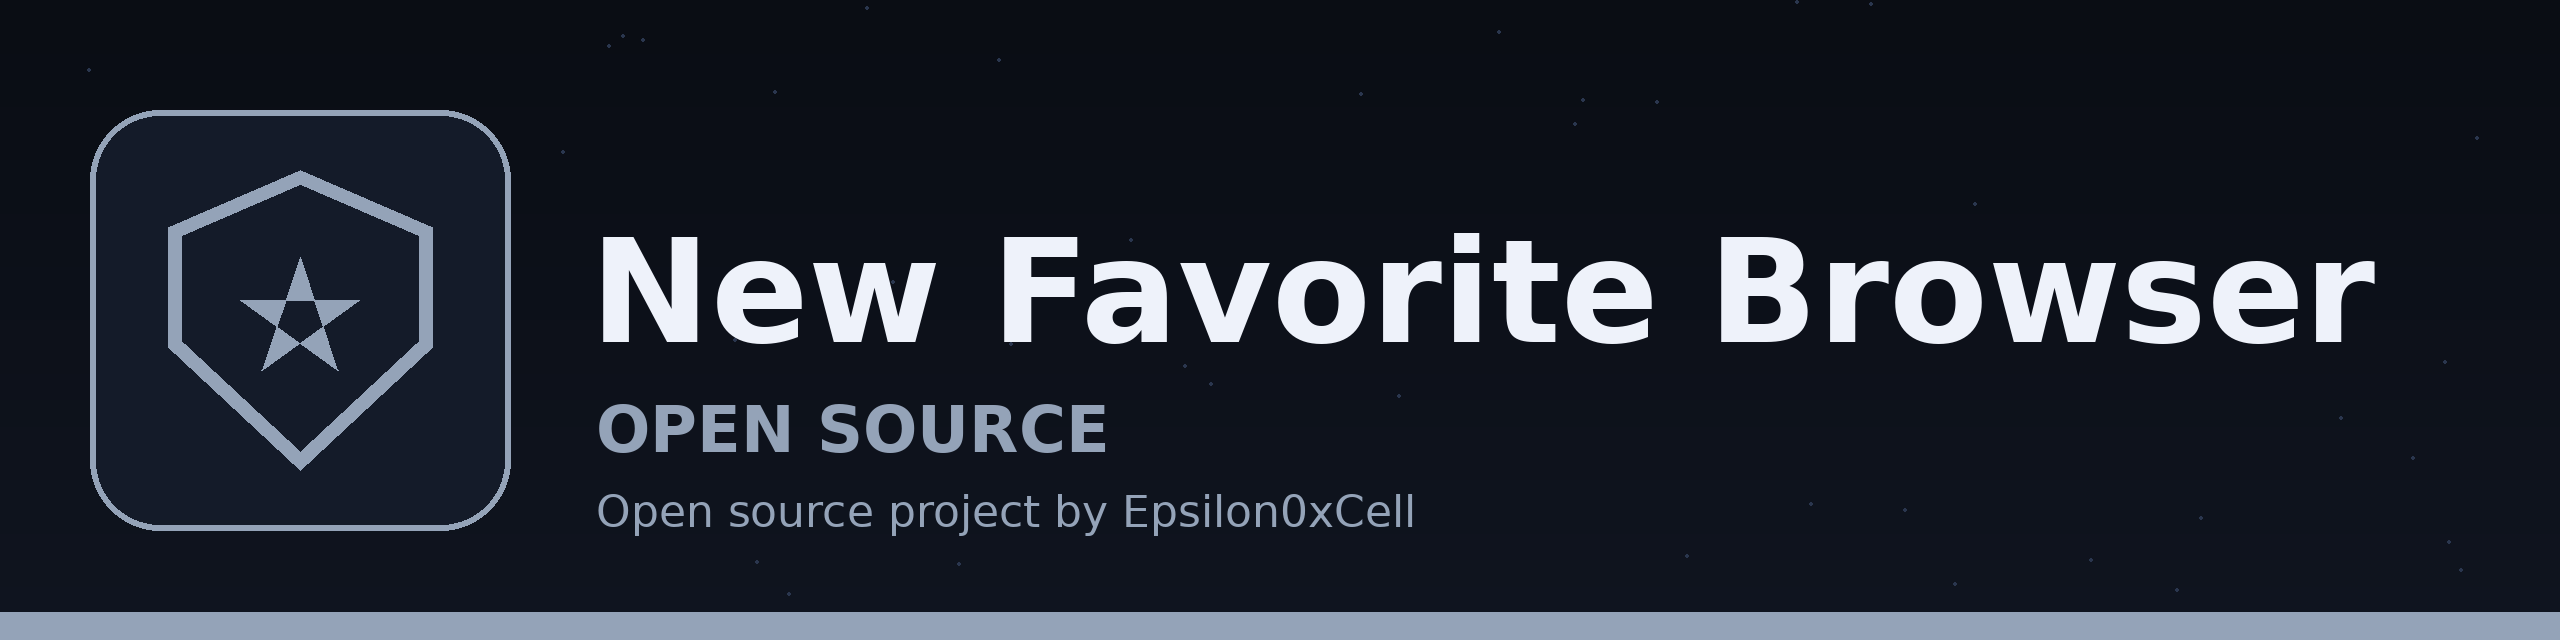
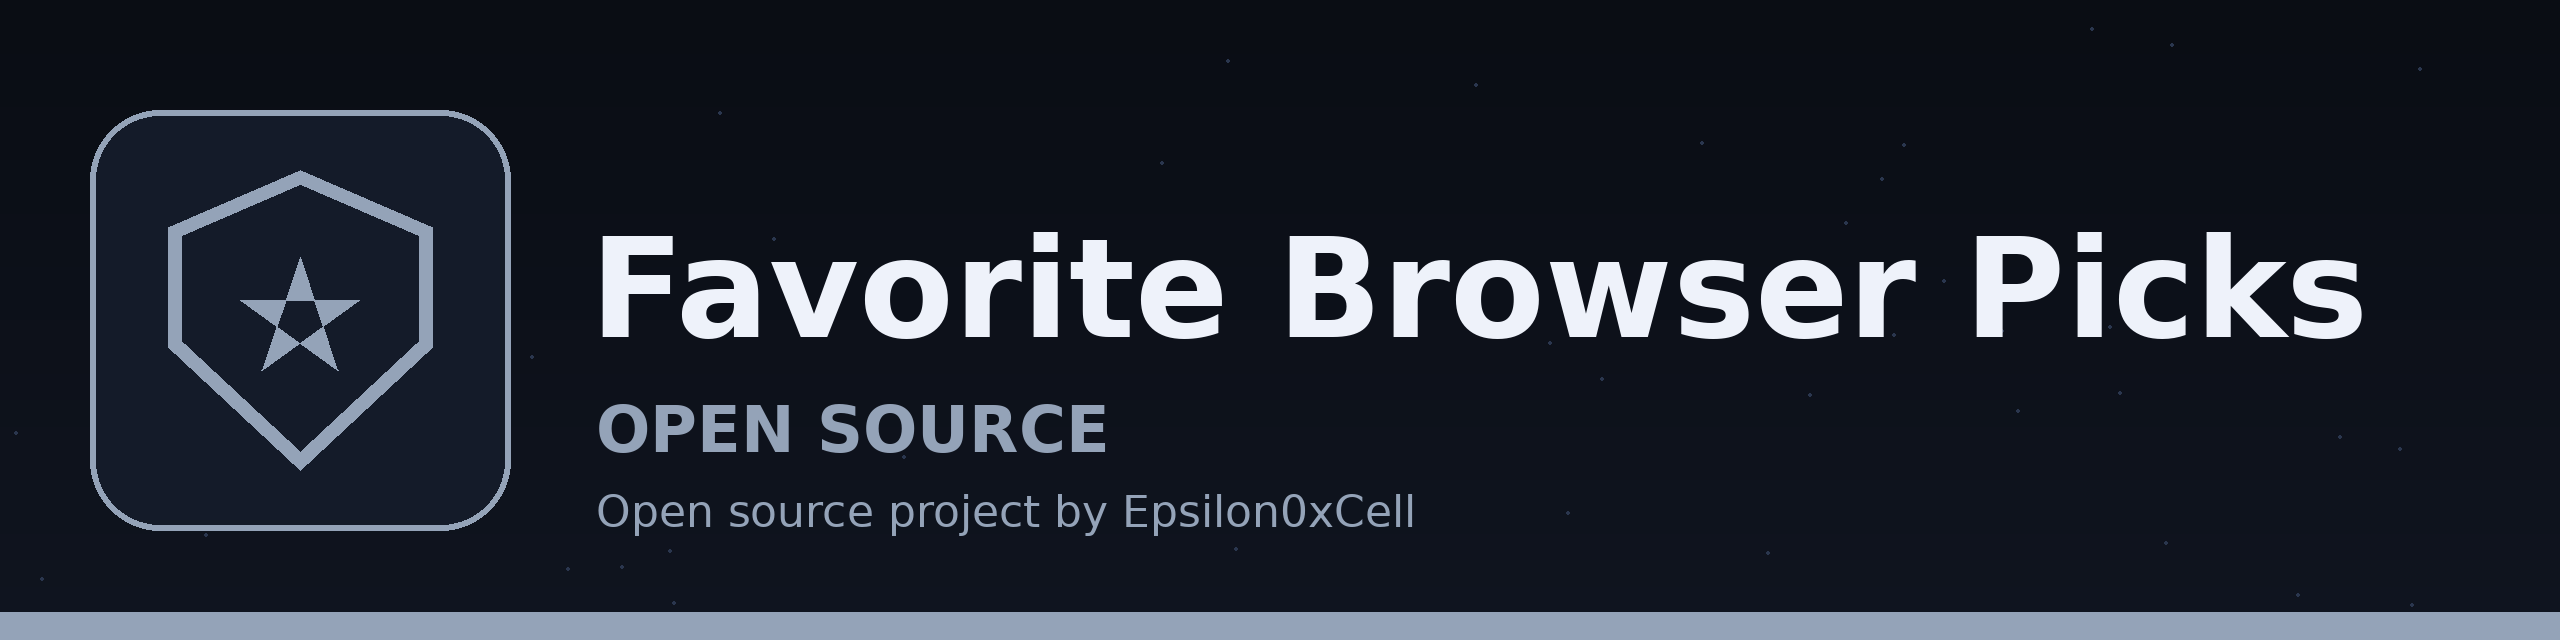
Update name to Favorite-Browser-Picks: README title and branding

Changed region(s): [[0.2188, 0.3438, 0.9375, 0.5312]]

diff --git a/README.md b/README.md
@@ -1,6 +1,6 @@
 ![Banner](banner.png)
 
-# New-Favorite-Browser
+# Favorite-Browser-Picks
 ```
 https://www.opera.com/gx && https://www.opera.com/air
 ```
